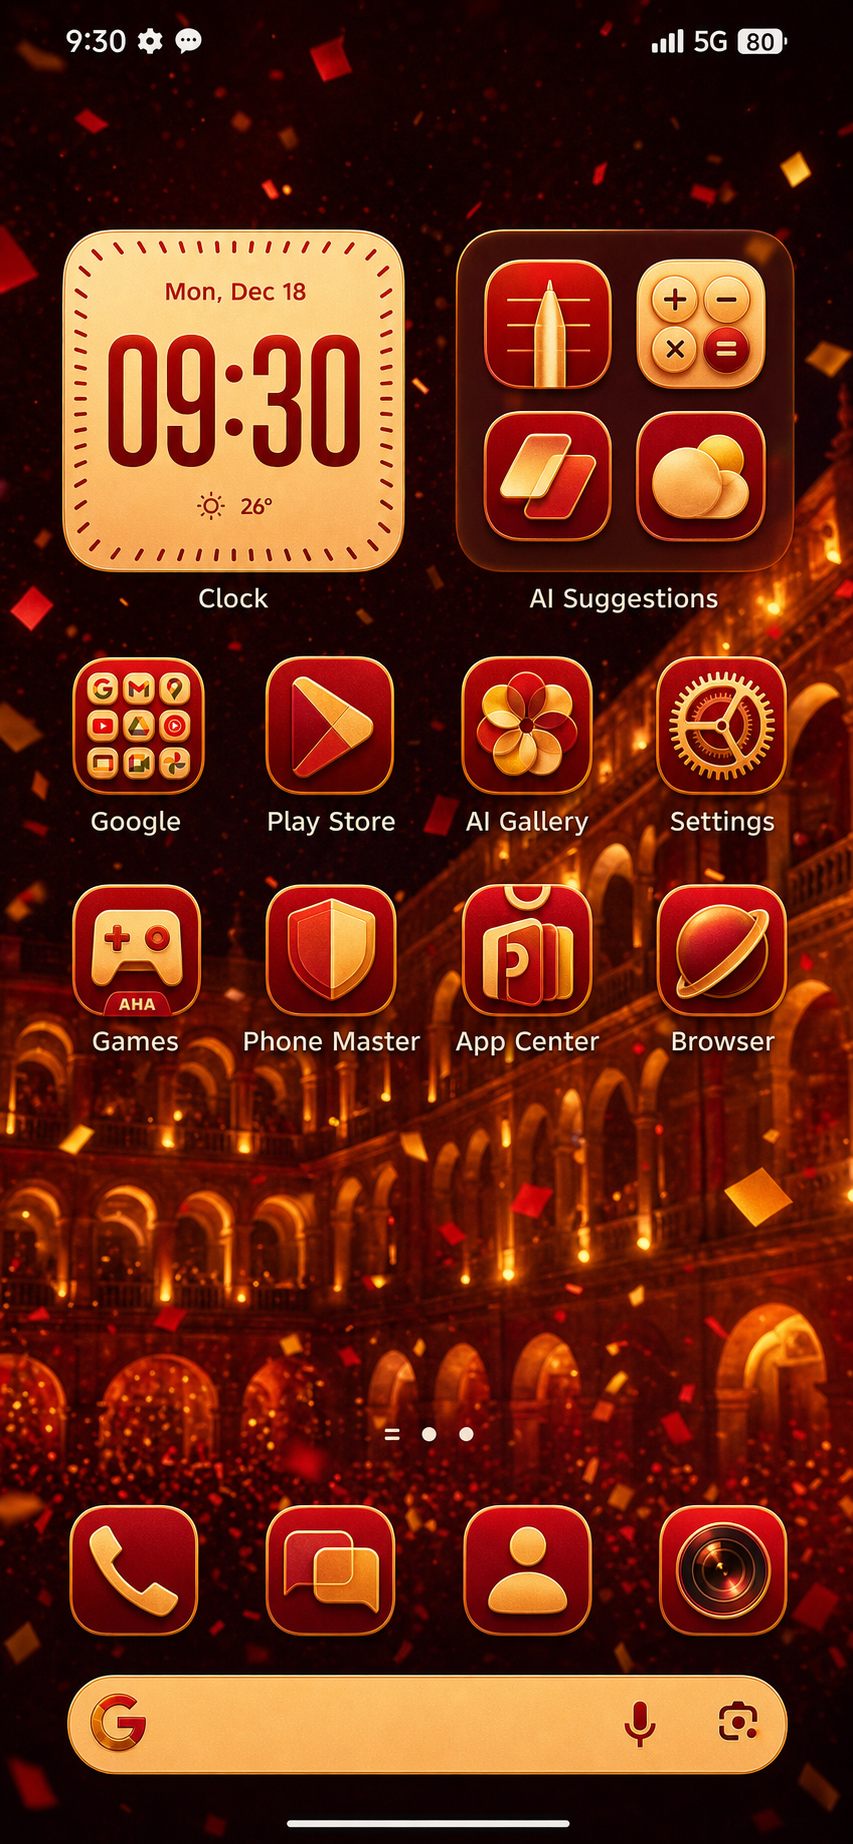
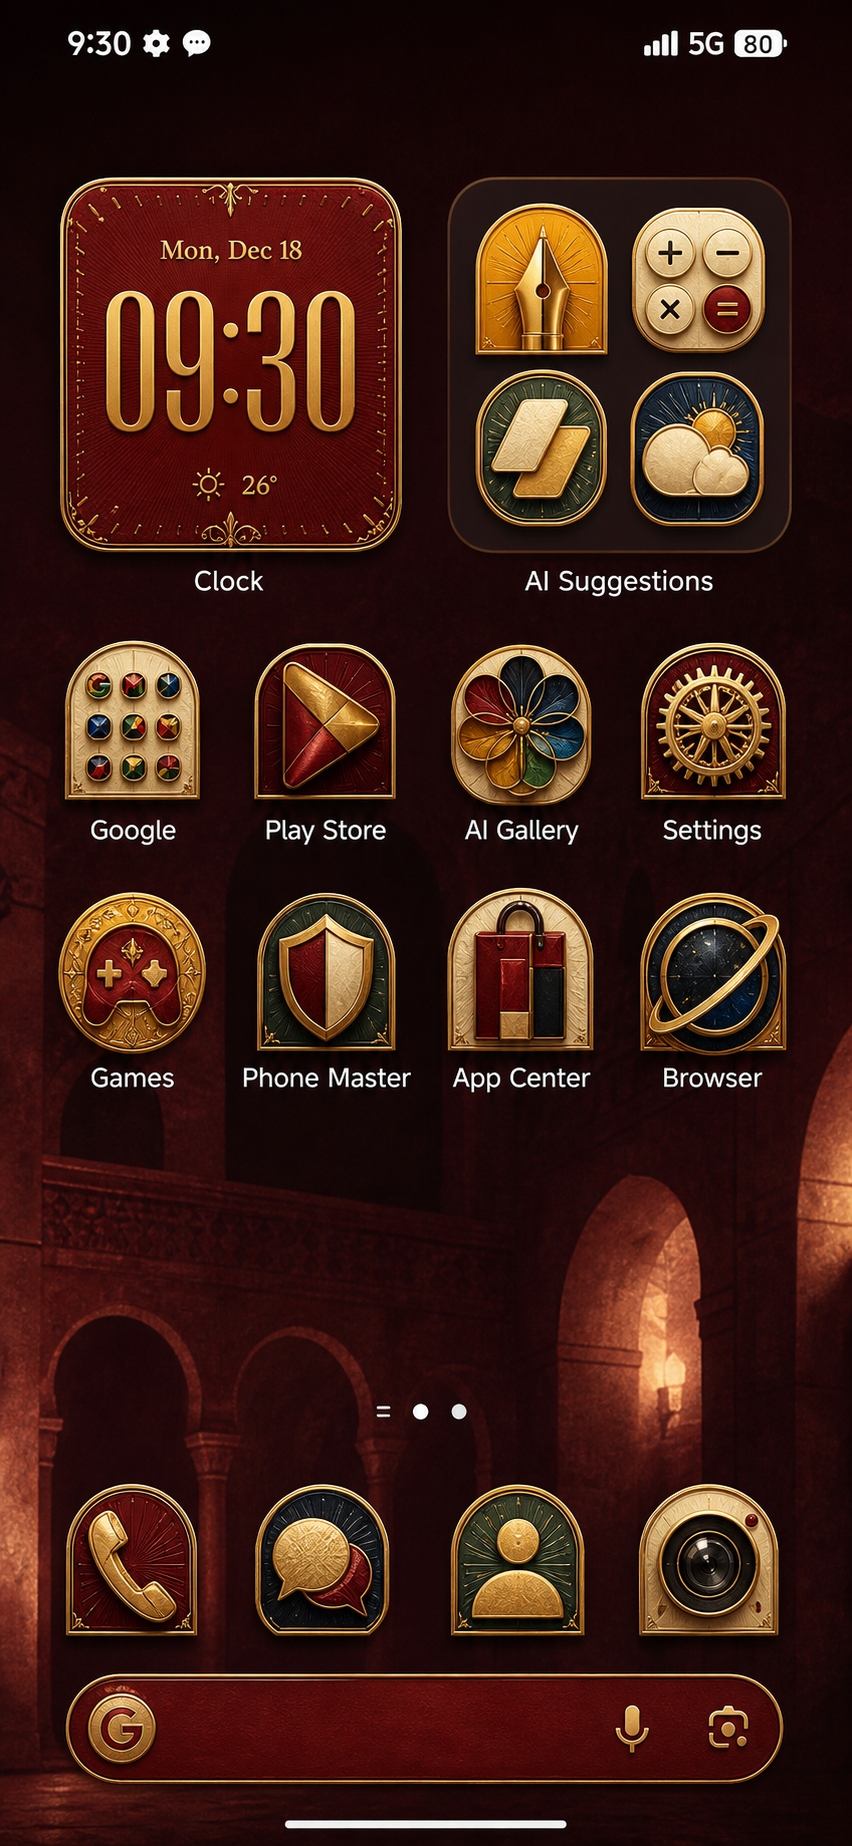
Update champion night theme preview

diff --git a/index.html b/index.html
@@ -93,8 +93,8 @@
           </div>
           <div class="theme-preview-grid">
             <article class="theme-preview-card">
-              <button class="theme-preview-image visual-preview" data-preview="./assets/theme-preview/world-cup-champion-afterglow-theme-v2.png?v=20260720-spain-redgold" data-caption="西班牙之夜 · 世界杯冠军主题" aria-label="预览西班牙之夜主题样图"><img src="./assets/theme-preview/world-cup-champion-afterglow-theme-v2.png?v=20260720-spain-redgold" alt="西班牙之夜世界杯冠军主题预览"></button>
-              <div class="theme-preview-info"><div><span class="theme-kicker">长线热点 · 西班牙夺冠</span><h3>西班牙之夜</h3><p>以深酒红、金色光粒与夜间拱廊的庆典氛围承接西班牙夺冠热度；壁纸和图标统一为红漆、琥珀金属与暖光材质。</p></div><div class="play-tags"><span>锁屏 + 图标</span><span>红金庆典</span><span>夜间广场</span></div><div class="visual-actions"><button class="theme-copy" data-theme-copy="worldcupChampionAfterglow">复制提示词</button><a href="./assets/theme-preview/world-cup-champion-afterglow-theme-v2.png" download="spain-champion-night-theme-preview.png">下载样图</a></div></div>
+              <button class="theme-preview-image visual-preview" data-preview="./assets/theme-preview/world-cup-champion-afterglow-theme-v2.png?v=20260720-champion-night-exact" data-caption="冠军之夜 · 世界杯冠军主题" aria-label="预览冠军之夜主题样图"><img src="./assets/theme-preview/world-cup-champion-afterglow-theme-v2.png?v=20260720-champion-night-exact" alt="冠军之夜世界杯冠军主题预览"></button>
+              <div class="theme-preview-info"><div><span class="theme-kicker">长线热点 · 世界杯冠军</span><h3>冠军之夜</h3><p>以深酒红、鎏金拱券与暖琥珀光粒构建高定庆典氛围；壁纸、图标与 Dock 统一为红漆、金属浮雕和拱形结构。</p></div><div class="play-tags"><span>锁屏 + 图标</span><span>红金庆典</span><span>拱券金属</span></div><div class="visual-actions"><button class="theme-copy" data-theme-copy="worldcupChampionAfterglow">复制提示词</button><a href="./assets/theme-preview/world-cup-champion-afterglow-theme-v2.png" download="champion-night-theme-preview.png">下载样图</a></div></div>
             </article>
             <article class="theme-preview-card">
               <button class="theme-preview-image visual-preview" data-preview="./assets/theme-preview/world-cup-champion-dawn-theme-v2.png?v=20260720-spain-redgold" data-caption="伊比利亚胜光 · 世界杯冠军主题" aria-label="预览伊比利亚胜光主题样图"><img src="./assets/theme-preview/world-cup-champion-dawn-theme-v2.png?v=20260720-spain-redgold" alt="伊比利亚胜光世界杯冠军主题预览"></button>